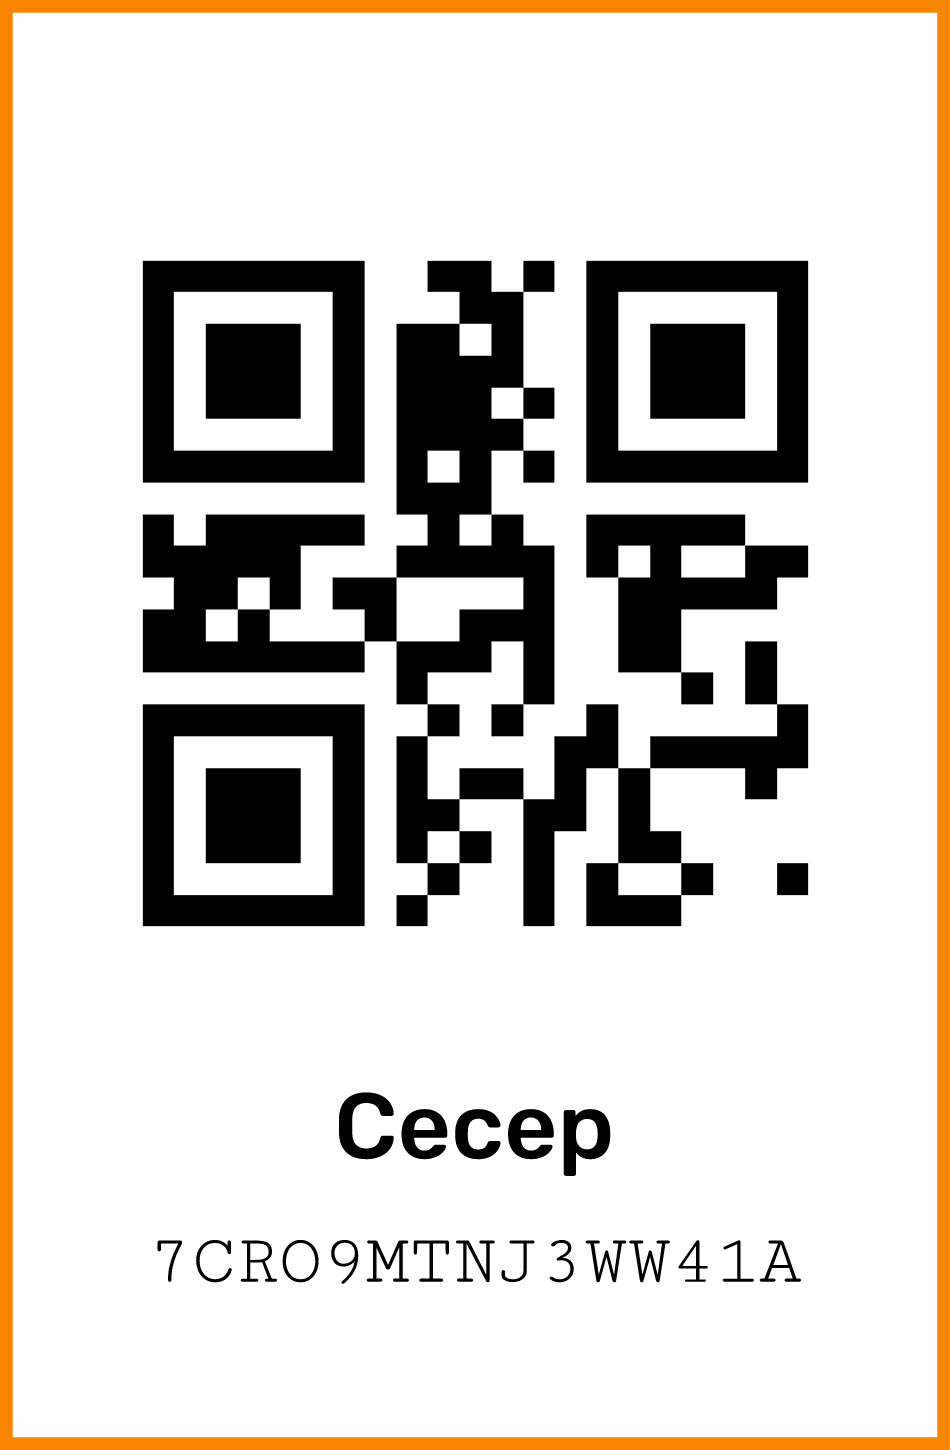
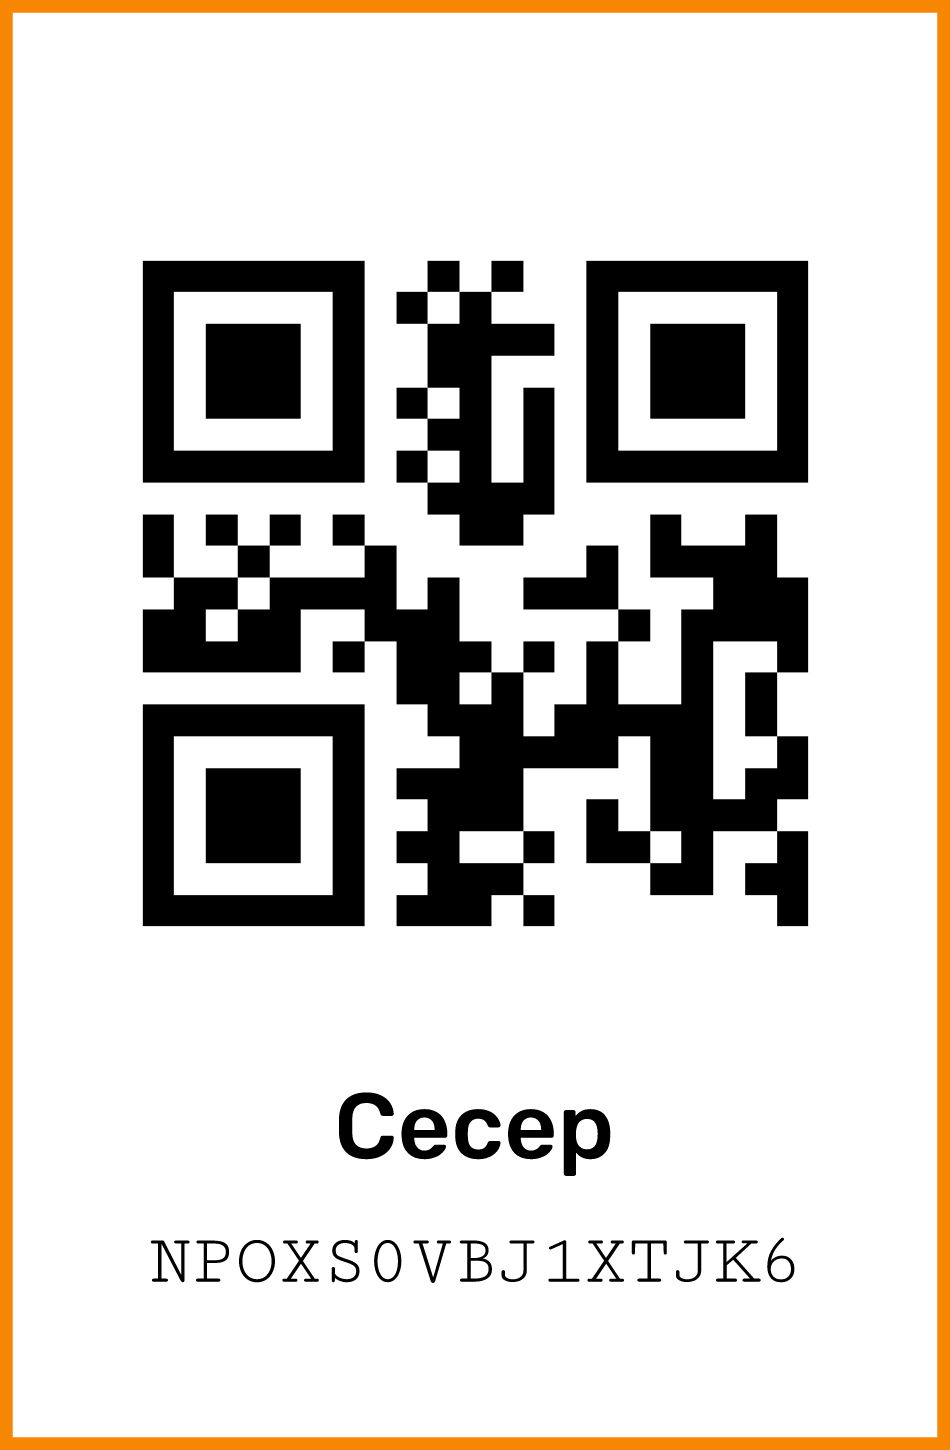
docs: memperbarui cara penggunaan

Changed region(s): [[0.1832, 0.1552, 0.8547, 0.6517], [0.1526, 0.8379, 0.5189, 0.9], [0.58, 0.8379, 0.8547, 0.9]]

diff --git a/README.md b/README.md
@@ -23,74 +23,48 @@ Tekan tombol `Use this template` dan pilih [`Create a new repository`](https://g
 
 ![Pakai Template Repositori Ini](./assets/001-pakai-template.png)
 
-Buat repositori sebagai private repo dikarenakan akan terdapat informasi sensitif di dalamnya.
+Buat repositori sebagai private repo dikarenakan akan terdapat informasi sensitif di dalamnya. Jika sudah yakin, lanjut `Create repository`.
 
 ![Buat Repositori Private](./assets/002-buat-repositori.png)
 
-Lalu clone repositori private tersebut ke komputer lokal.
+Kurang lebih tampilannya akan terlihat seperti ini setelah menggunakan template, biarkan seperti ini terlebih dahulu.
 
-![Clone ke komputer lokal](./assets/003-clone-ke-local.png)
-
-### Menginstall dependensi
-
-Install dependensi yang diperlukan supaya web ini dapat berjalan. Bisa menggunakan pnpm (disarankan) atau menggunakan npm.
-
-```sh
-npm install
-
-# atau menggunakan pnpm
-pnpm install
-```
-
-![Hasil setelah menjalankan pnpm install](./assets/004-install-dependensi.png)
+![Kondisi repositori di github](./assets/003-setelah-dibuat.png)
 
 ### Unduh data keseluruhan partisipan
 
 Buka halaman administrator voting, menuju ke halaman partisipan. Disitu akan ditampilkan siapa saja peserta dan beberapa tombol yang dapat digunakan. Klik tombol `Export JSON` untuk mendapatkan data keseluruhan peserta.
 
-![Tekan tombol Export JSON untuk mendapatkan data keseluruhan peserta](./assets/005-export-json.png)
+![Tekan tombol Export JSON untuk mendapatkan data keseluruhan peserta](./assets/004-export-json.png)
 
-Akan muncul prompt unduh, letakan dalam folder `/data` dengan nama `data-partisipan.json` (secara default seperti ini).
+Akan muncul prompt unduh, simpan file tersebut untuk nantinya di upload ke repositori yang berada di github.
 
-![Download file json ke folder data](./assets/006-download-data.png)
+![Download file json ke komputer](./assets/005-download-data.png)
 
-### Membuild web
+### Edit file `.gitignore` yang ada di github
 
-Setelah data sudah siap, saatnya build aplikasi terlebih dahulu supaya dapat di preview di lokal dan tidak terlalu menjadi beban. Jalankan perintah dibawah ini untuk membuild web ini.
-
-```sh
-npm build
-
-# atau menggunakan pnpm
-pnpm build
-```
-
-![Hasil output setelah menjalankan build](./assets/007-run-build.png)
-
-### Komentari baris yang ada di `.gitignore`
-
-Pada awalnya data json yang di dapatkan dari administrator awalnya tidak bisa di commit beserta gambar yang dihasilkan, oleh karena itu komentari 2 baris terakhir yang ada di file [`.gitignore`](./.gitignore)
+Pada awalnya data json yang di dapatkan dari administrator awalnya tidak bisa ditambahkan, oleh karena itu komentari baris terakhir yang ada di file [`.gitignore`](./.gitignore)
 
 ```diff
 # Komentari dua baris di bawah ini
 # ketika sudah di clone
 -data/*.json
--public/img/*.png
 +# data/*.json
-+# public/img/*.png
 ```
 
-![Setelah di comment](./assets/008-setelah-comment-gitignore.png)
+![Setelah di comment](./assets/006-setelah-comment-gitignore.png)
 
-### Push perubahan ke repositori remote
+Jika sudah, jangan lupa untuk commit perubahan yang sudah dibuat.
 
-Jangan lupa tambahkan, commit, dan push!
+### Upload file `data-partisipan.json` ke folder [`data`](./data)
 
-```sh
-git add .
-git commit -m "menambahkan informasi"
-git push
-```
+Jika sudah memberi comment pada file `.gitignore`, sekarang waktunya untuk mengupload file yang tadi sudah di download ke repositori.
+
+![Upload file di folder data](./assets/007-upload-file.png)
+
+Ikuti alur dan jangan lupa untuk commit file tersebut.
+
+![Setelah upload file](./assets/008-setelah-upload-file.png)
 
 ## Hosting
 
@@ -118,14 +92,14 @@ Berikut ini adalah langkah-langkah supaya bisa di host static ke vercel.
 
 Web sudah bisa di akses sekarang, sebagai contoh, website https://contoh-repo-qrcode.vercel.app/ adalah contoh yang dapat peserta akses.
 
-Contoh untuk QR Cecep, bisa akses halaman https://contoh-repo-qrcode.vercel.app/qr/7CRO9MTNJ3WW41A dan dibawah ini hasil QR Setelah di download.
+Contoh untuk QR Cecep, bisa akses halaman https://contoh-repo-qrcode.vercel.app/qr/NPOXS0VBJ1XTJK6 dan dibawah ini hasil QR Setelah di download.
 
 ![Contoh QR Code Cecep](./assets/qr-cecep.png)
 
 List peserta yang lain
 
-- Ujang => https://contoh-repo-qrcode.vercel.app/qr/4KV9S7ISMNBRUCI
-- Tono => https://contoh-repo-qrcode.vercel.app/qr/98HICZTKNDX1G0P
+- Ujang => https://contoh-repo-qrcode.vercel.app/qr/K3QG8YZ3URQ7MZQ
+- Tono => https://contoh-repo-qrcode.vercel.app/qr/04M19P35Y1J28VI
 
 ## Lisensi
 
